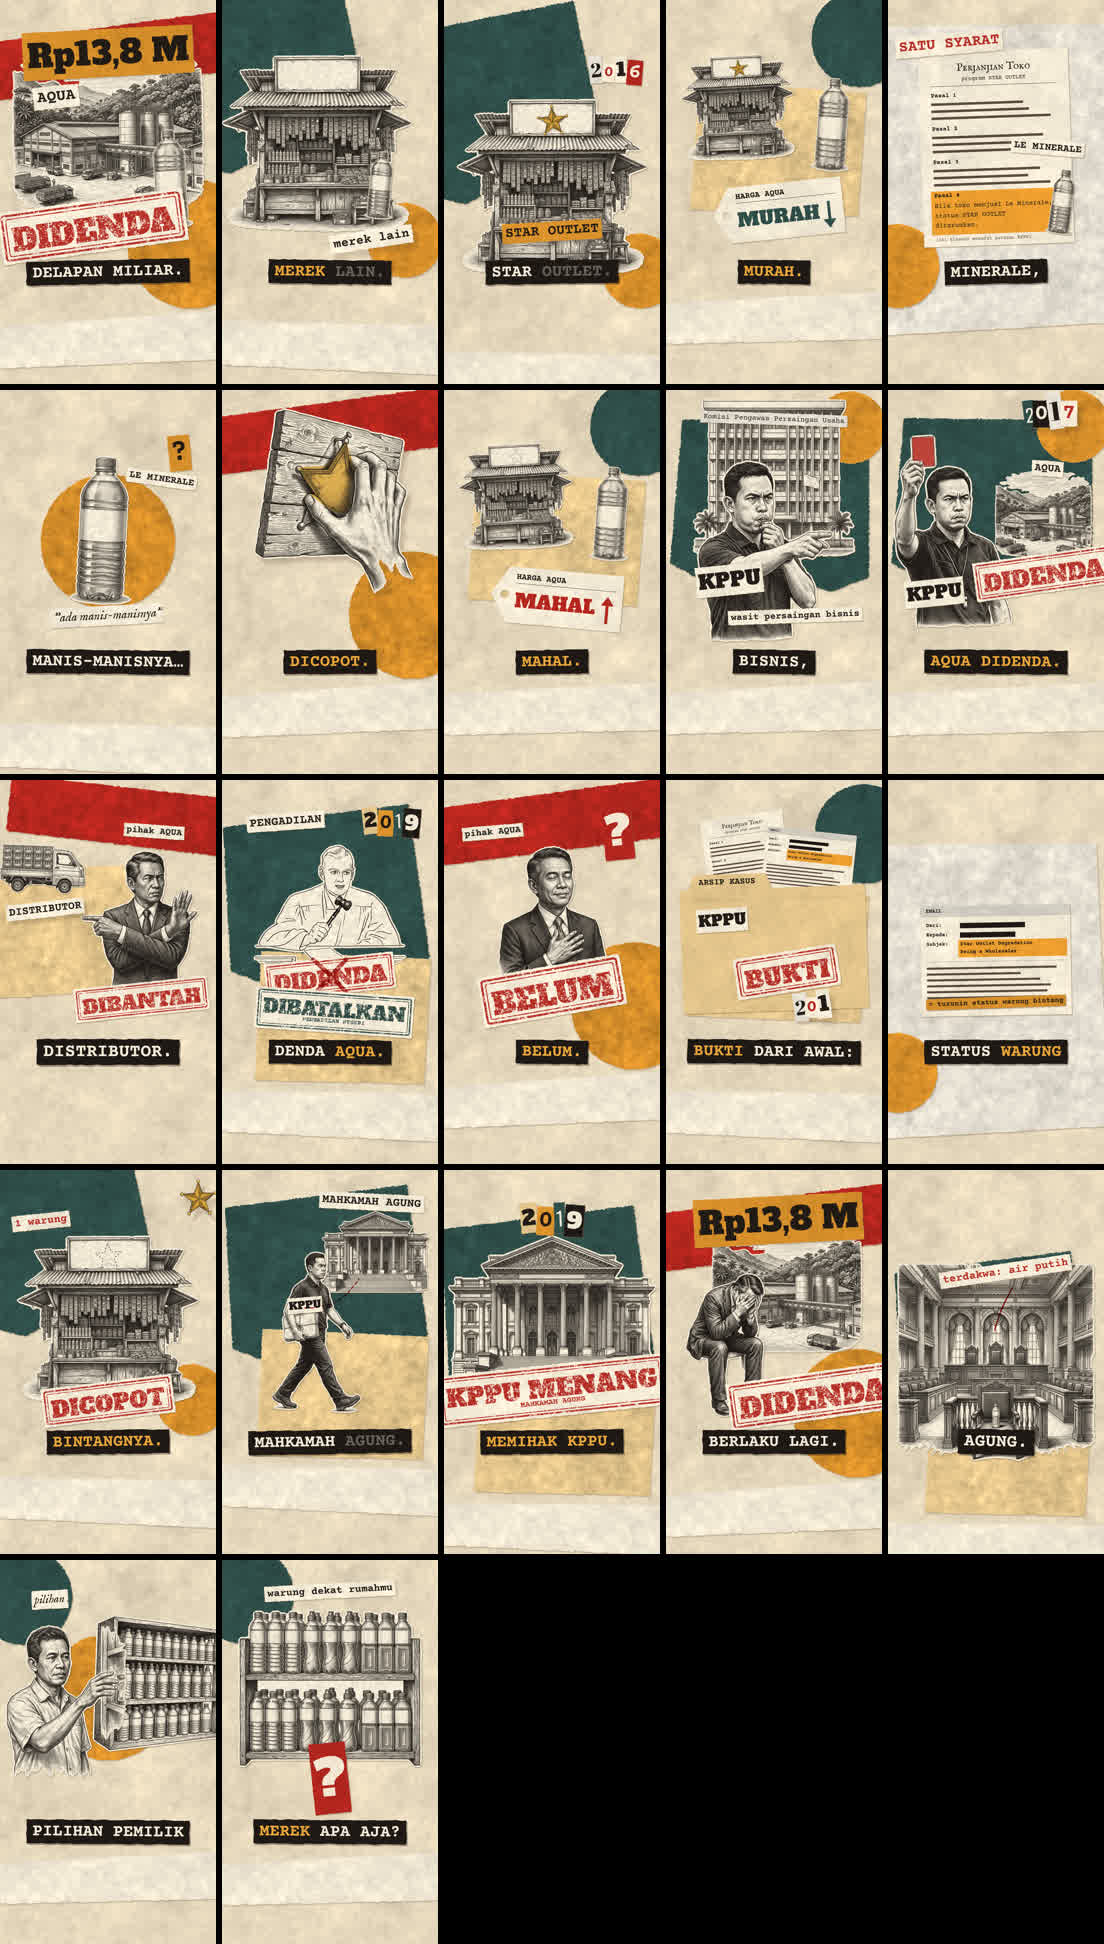
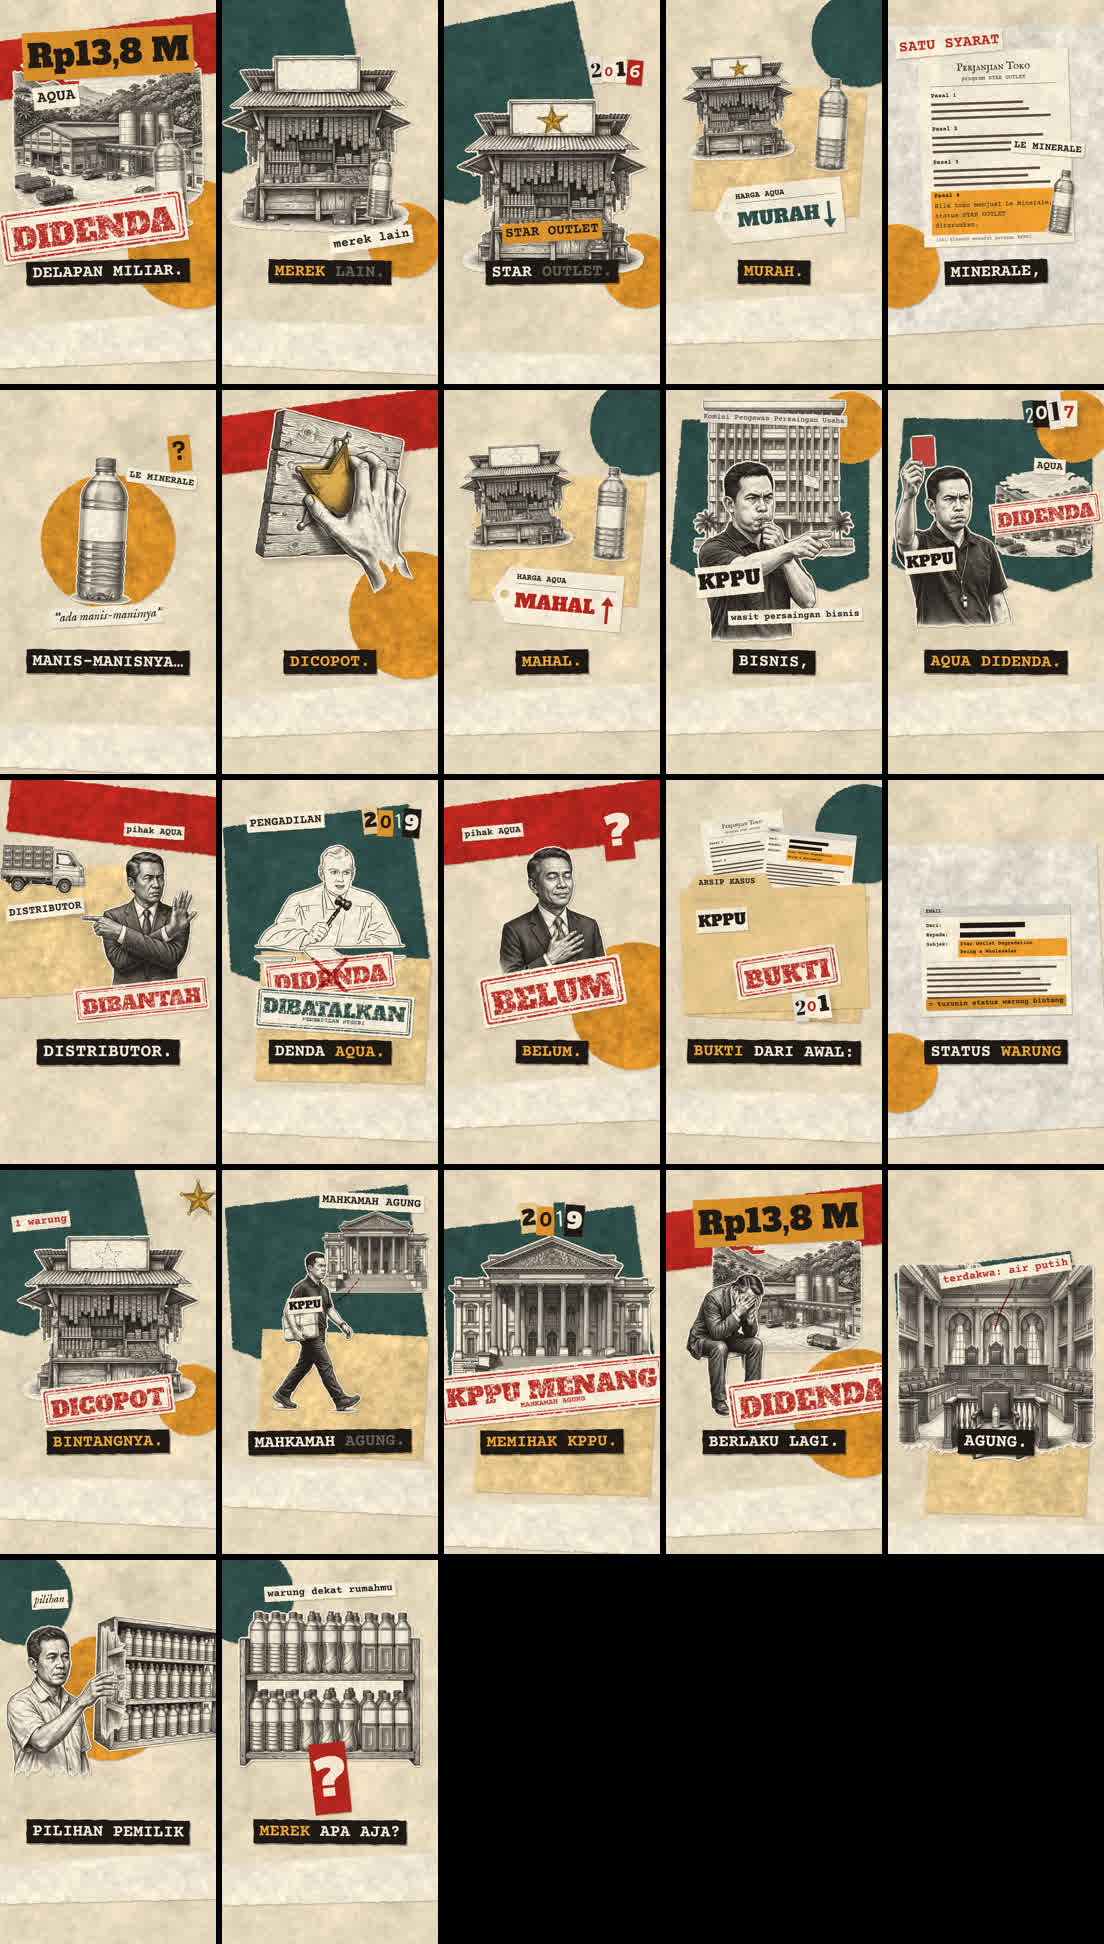
ARSIP #004 aqua: S10 fine stamp on the factory, KPPU label on the referee
Claude-Session: https://claude.ai/code/session_01BfnoLVZri9uAPP3UdHeCe6

Changed region(s): [[0.8007, 0.216, 1.0, 0.3395]]

diff --git a/stories/aqua/kolase/film.js b/stories/aqua/kolase/film.js
@@ -120,10 +120,10 @@ const SHOTS = [
     const tk = at(9, 'nggak'), td = at(9, 'didenda');
     stage(u, d, { z0: 1.0, z1: 1.07, shake: [[tk, 8], [td, 12]] }); bg(SET.ref);
     put('pabrik', 760, 640, 0, 0, 1, 0.5);
-    putK('s_aqua', slap(0.1, 780, 430, 4), u, 113, { s: 0.9 });
+    putK('s_aqua', slap(0.1, 790, 420, 4), u, 113, { s: 0.9 });
     putK('wasit_kartu', slide(tk - 0.25, tk, 330, 720, -2, -700, 0, 0, 0.8), u, 111, { s: 0.92 });
-    putK('s_kppu', slap(tk + 0.1, 250, 1010, -6), u, 112, { s: 0.7 });
-    stampAt('st_denda', u, td, 760, 920, -8, 0.9);
+    putK('s_kppu', slap(tk + 0.1, 230, 860, -6), u, 112, { s: 0.6 });
+    stampAt('st_denda', u, td, 770, 640, -7, 0.72);
     if (u > td + 0.15) ransomRow('ry17', u, td + 0.15, 800, 190, 0.07, 0.8);
   },
   // 11 · Tapi Aqua membantah, katanya itu ulah distributor.   the company man says "not us" and points at the distributor's truck
